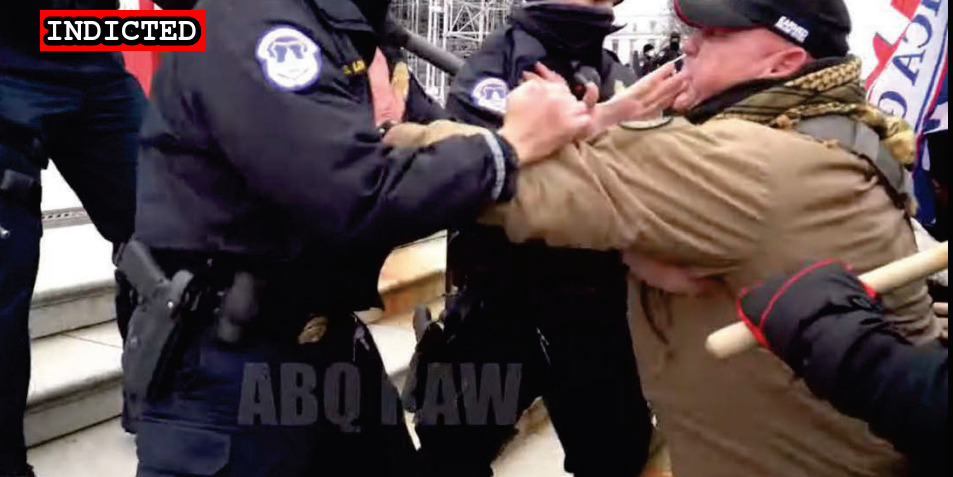
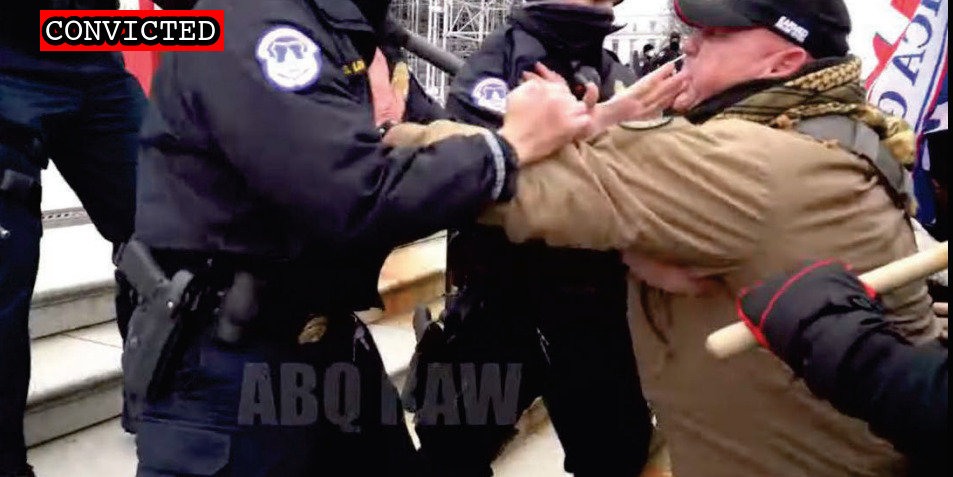
Barton Shively conviction

Changed region(s): [[0.0304, 0.0, 0.2434, 0.1174]]

diff --git a/docs/_suspects/barton-shively.md b/docs/_suspects/barton-shively.md
@@ -4,15 +4,18 @@ lastName: Shively
 hashtag: MissingToothMarine
 aka:
 residence: Pennsylvania
-status: Indicted
+status: Convicted
 date: 2021-01-19
 charged: 2021-01-19
 indicted: 2021-02-24
-convicted:
+convicted: 2022-09-21
+acquitted:
 sentenced:
 dismissed:
 deceased:
 plea_hearing: 2022-09-21
+trial_date:
+trial_type:
 sentencing:
 age: 53
 occupation: U.S. Marines (Former)
@@ -34,6 +37,14 @@ published: true
 caseNumber: 1:21-cr-151
 videos:
 charges:
+  - code: 18 USC § 111(a)(1)
+    title: Assaulting, resisting, or impeding certain officers or employees
+    url: https://www.law.cornell.edu/uscode/text/18/111
+    felony: true
+  - code: 18 USC § 111(a)(1)
+    title: Assaulting, resisting, or impeding certain officers or employees
+    url: https://www.law.cornell.edu/uscode/text/18/111
+    felony: true
 sentence:
 ---
 
